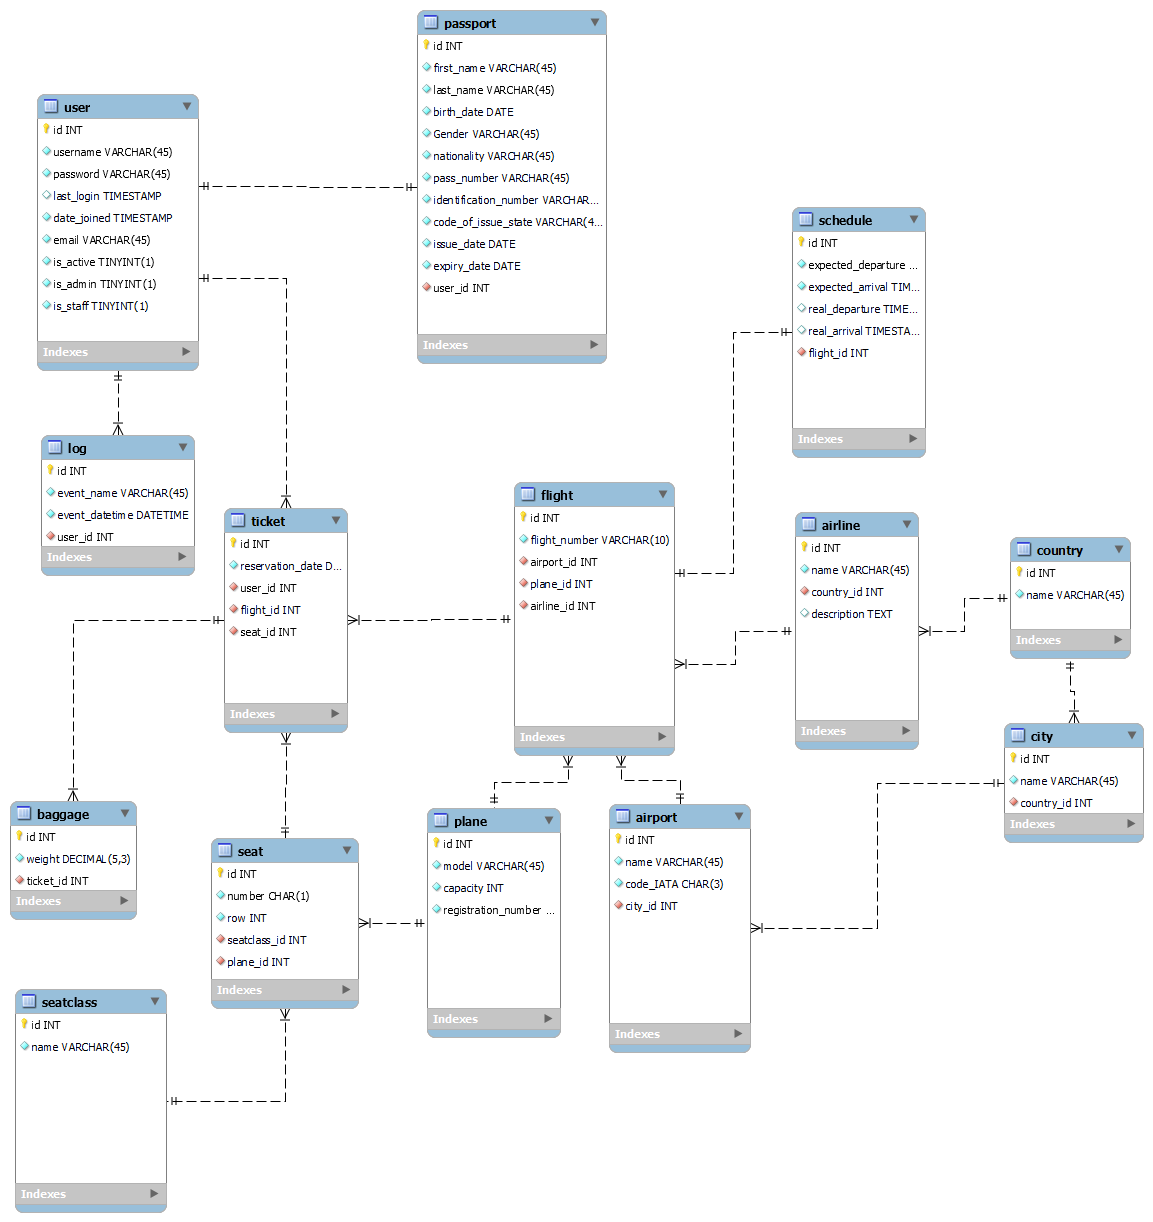
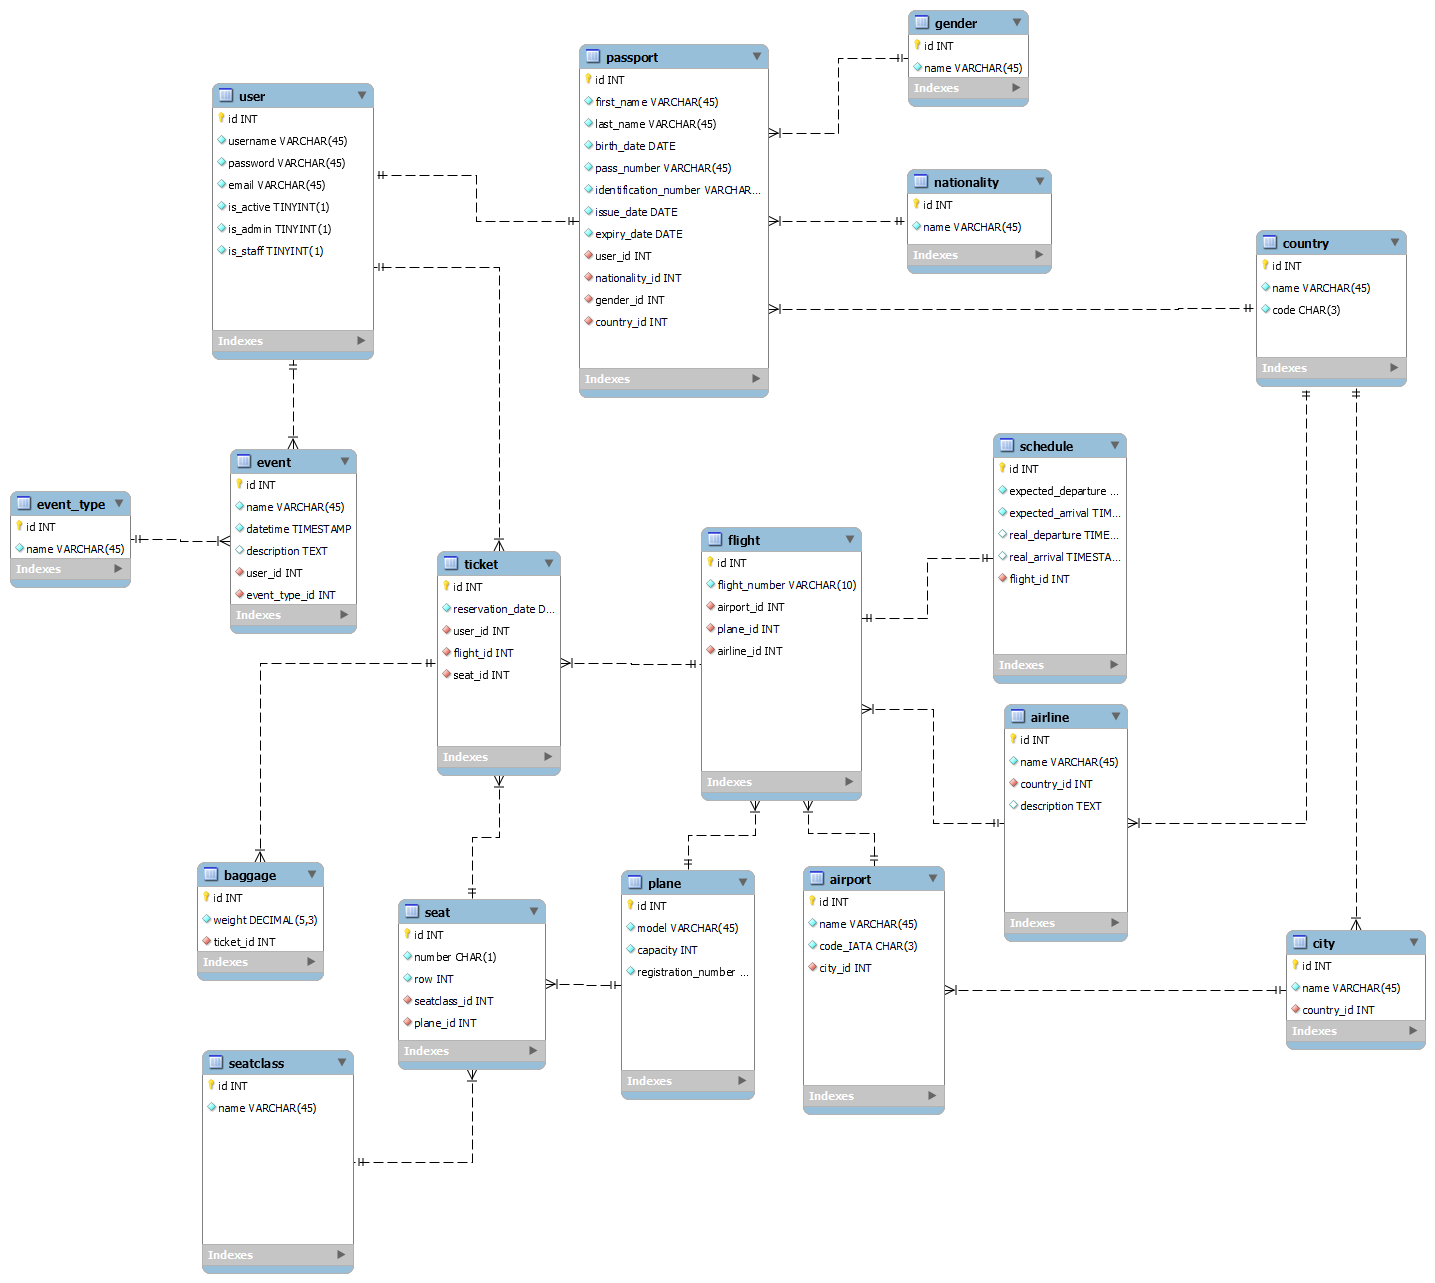
Updated Passport and eveny( in past log) model and added event type, gender and nationality model.

diff --git a/README.md b/README.md
@@ -21,9 +21,6 @@ About Repository with laboratory works on the discipline DM-DMS (Data Models and
     - Пароль
     - Электронная почта
     - Роль
-    - Время создания аккаунта
-    - Время последнего входа в аккаунт
-
 
 2. <b>Паспорт</b> (Passport) - таблица, описывающая личные данные пользователя.
     
@@ -40,6 +37,9 @@ About Repository with laboratory works on the discipline DM-DMS (Data Models and
     
     2.2 <b>Связи</b>: 
     - OneToOne с таблицей пользователя (User)
+    - OneToMany с таблицей гендера (Gender)
+    - OneToMany с таблицей национальности (Nationality)
+    - OneToMany с таблицей страны (Country)
 
 
 3. <b>Рейс</b> (Flight) - таблица, описывающая данные о рейсе.
@@ -137,6 +137,7 @@ About Repository with laboratory works on the discipline DM-DMS (Data Models and
     
     11.1 <b>Поля</b>:
     - Название
+    - Код
 
 
 12. <b>Город</b> (City) - таблица, описывающая данные о городе.
@@ -149,28 +150,45 @@ About Repository with laboratory works on the discipline DM-DMS (Data Models and
     - OneToMany с таблицей стран (Country)
 
 
-13. <b>Журнал</b> (log) - таблица, описывающая данные о действиях пользователя.
+13. <b>Событие</b> (event) - таблица, описывающая данные о действиях пользователя.
     
     13.1 <b>Поля</b>:
     - Название события 
     - Описание события
     - Время события 
     - Пользователь ([FK](#FK))
+    - Тип события ([FK](#FK))
 
     13.2 <b>Связи</b>: 
     - OneToMany с таблицей пользователей (User)
+    - OneToMany с таблицей тип события (event_type)
 
-14. <b>Место</b> (Seat) - таблица, описывающая данные о местах.
+14. <b>Тип события</b> (event_type) - таблица, описывающая данные о типе события.
     
     14.1 <b>Поля</b>:
+    - Название типа события 
+
+15. <b>Место</b> (Seat) - таблица, описывающая данные о местах.
+    
+    15.1 <b>Поля</b>:
     - Номер
     - Ряд
     - Самолет ([FK](#FK))
     - Класс места ([FK](#FK))
 
-    14.2 <b>Связи</b>: 
+    15.2 <b>Связи</b>: 
     - OneToMany с таблицей классов места (SeatClass)
     - OneToMany с таблицей самолета (Plane)
+
+16. <b>Гендер</b> (gender) - таблица, описывающая данные о гендере пользователя.
+    
+    16.1 <b>Поля</b>:
+    - Название гендера 
+
+17. <b>Национальность</b> (nationality) - таблица, описывающая данные о национальности пользователя.
+    
+    17.1 <b>Поля</b>:
+    - Название национальности
 
 
 ## Functional requirements
@@ -195,11 +213,15 @@ About Repository with laboratory works on the discipline DM-DMS (Data Models and
 - Функции [пользователя](#пользователь)
 - [CRUD](#CRUD) оперции с различными моделями: 
     - Пользователи
+    - Паспорта
+    - Страны
+    - Города
+    - Места
+    - Тип места
     - Рейсы
     - Расписания
     - Билеты
     - Багаж
-    - Питание на борту
     - Класс билета
     - Авиакомпании
     - Аэропорты
